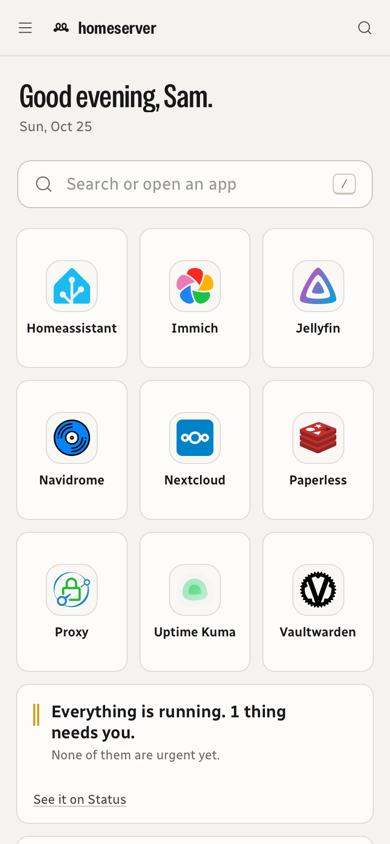
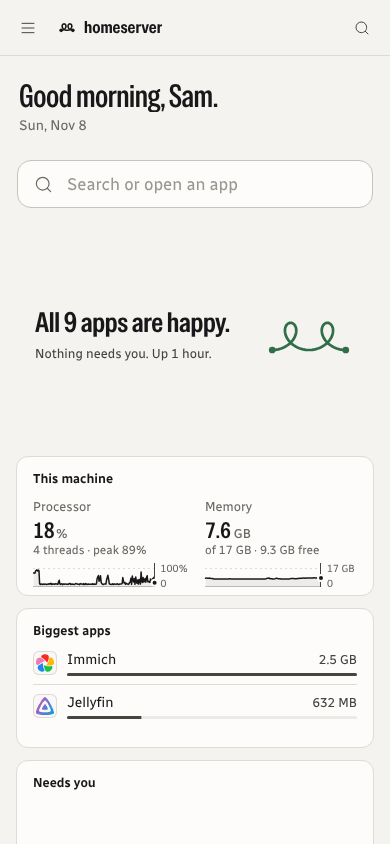
Refresh README screenshots and add nine more
The old ones still showed the removed Status page. Adds Files, System,
Alerts, People, Activity, Sites, Terminal, Home in dark mode and Apps on
a phone, plus scripts/screenshots to rebuild the demo server (made-up
apps and files) and take them again.

diff --git a/README.md b/README.md
@@ -15,7 +15,7 @@
   <img src="https://img.shields.io/badge/runs%20on-Linux%20%2B%20Docker-informational" alt="Runs on Linux with Docker">
 </p>
 
-![Gluon's Home page: app tiles, a sentence saying everything is running, and live processor, memory, storage and network cards](docs/screenshots/home.png)
+![Gluon's Home page: a sentence saying all nine apps are happy, live processor and memory, the biggest apps, and app tiles](docs/screenshots/home.png)
 
 In physics, the gluon is the particle that holds everything together. This one holds a home server
 together: health, apps, files, storage, network and diagnostics in one place, written in plain words.
@@ -92,12 +92,20 @@ That's it. Gluon shows what it found on the server before it changes anything. M
 | --- | --- |
 | ![The Apps list: nine apps with state, CPU and memory sparklines and their addresses](docs/screenshots/apps.png) | ![Immich's page: a diagram from its address through four containers to the folders that hold its data](docs/screenshots/app.png) |
 | **Apps.** Every container and Compose stack, with live CPU and memory. | **How an app is put together**, from its address to its containers and data. |
-| ![Diagnostics: a full checkup and targeted checks such as "An app won't open"](docs/screenshots/diagnostics.png) | ![First-run setup listing what Gluon found on the server](docs/screenshots/setup.png) |
-| **Diagnostics.** A full checkup, or a check for one specific problem. | **First run** shows what Gluon found before it changes anything. |
-| <img src="docs/screenshots/phone.png" width="260" alt="Home on a phone: app tiles in a three-column grid"> | |
+| ![Files: recently changed photos as thumbnails, pinned folders, the drive and the folders apps keep data in](docs/screenshots/files.png) | ![System overview: processor, memory split by app, hardware and software](docs/screenshots/system.png) |
+| **Files.** The whole machine, with pins, previews and the folders each app uses. | **System.** What the machine is doing, and which app is using the memory. |
+| ![Diagnostics: a full checkup and targeted checks such as "An app won't open"](docs/screenshots/diagnostics.png) | ![Alerts: nine uptime monitors with their response times](docs/screenshots/alerts.png) |
+| **Diagnostics.** A full checkup, or a check for one specific problem. | **Alerts.** Uptime monitors and where notifications go. |
+| ![People: two admins and two household members, with two-step sign-in and devices](docs/screenshots/people.png) | ![Activity: invites sent and accepted, a site created, a command run and sign-ins](docs/screenshots/activity.png) |
+| **People.** Accounts for the household, each with only what you share. | **Activity.** Every change, who made it and when. |
+| ![The site editor: a file tree, the HTML source and a live preview of a family recipes site](docs/screenshots/sites.png) | ![Terminal showing the output of docker ps](docs/screenshots/terminal.png) |
+| **Sites.** Simple web pages, edited in the browser and published in a click. | **Terminal.** A shell on the server or in any container. |
+| ![Home in dark mode](docs/screenshots/home-dark.png) | ![First-run setup introducing the server](docs/screenshots/setup.png) |
+| **Dark mode** follows your device. | **First run** shows what Gluon found before it changes anything. |
+| <img src="docs/screenshots/phone.png" width="260" alt="Home on a phone: the status sentence, machine use and the app list"> <img src="docs/screenshots/phone-apps.png" width="260" alt="The Apps list on a phone"> | |
 | **On a phone**, everything works the same. | |
 
-Light and dark follow your device. The screenshots come from a demo server with made-up data.
+The screenshots come from a demo server with made-up data; [`scripts/screenshots`](scripts/screenshots) rebuilds it and takes them again.
 
 ## Install
 

diff --git a/scripts/screenshots/README.md b/scripts/screenshots/README.md
@@ -1,0 +1,8 @@
+# README screenshots
+
+Use a throwaway Linux VM with Docker: the demo tags a tiny stand-in image with real app image names and writes made-up files under `/srv/apps` and `/DATA`.
+
+1. `sudo sh scripts/screenshots/demo.sh up` starts nine made-up apps and fills `/DATA` with made-up photos, documents, films and music.
+2. `sudo hostname homeserver`, then `rm -rf /tmp/gluon-demo && GLUON_DATA=/tmp/gluon-demo GLUON_NO_NSENTER=1 npm run dev`, and leave it 15 minutes so the charts fill.
+3. In a second shell: `npx playwright install chromium && node scripts/screenshots/take.mjs "$(cat /tmp/gluon-demo/setup-code)"`
+4. `sudo sh scripts/screenshots/demo.sh down` removes the apps and their images.
